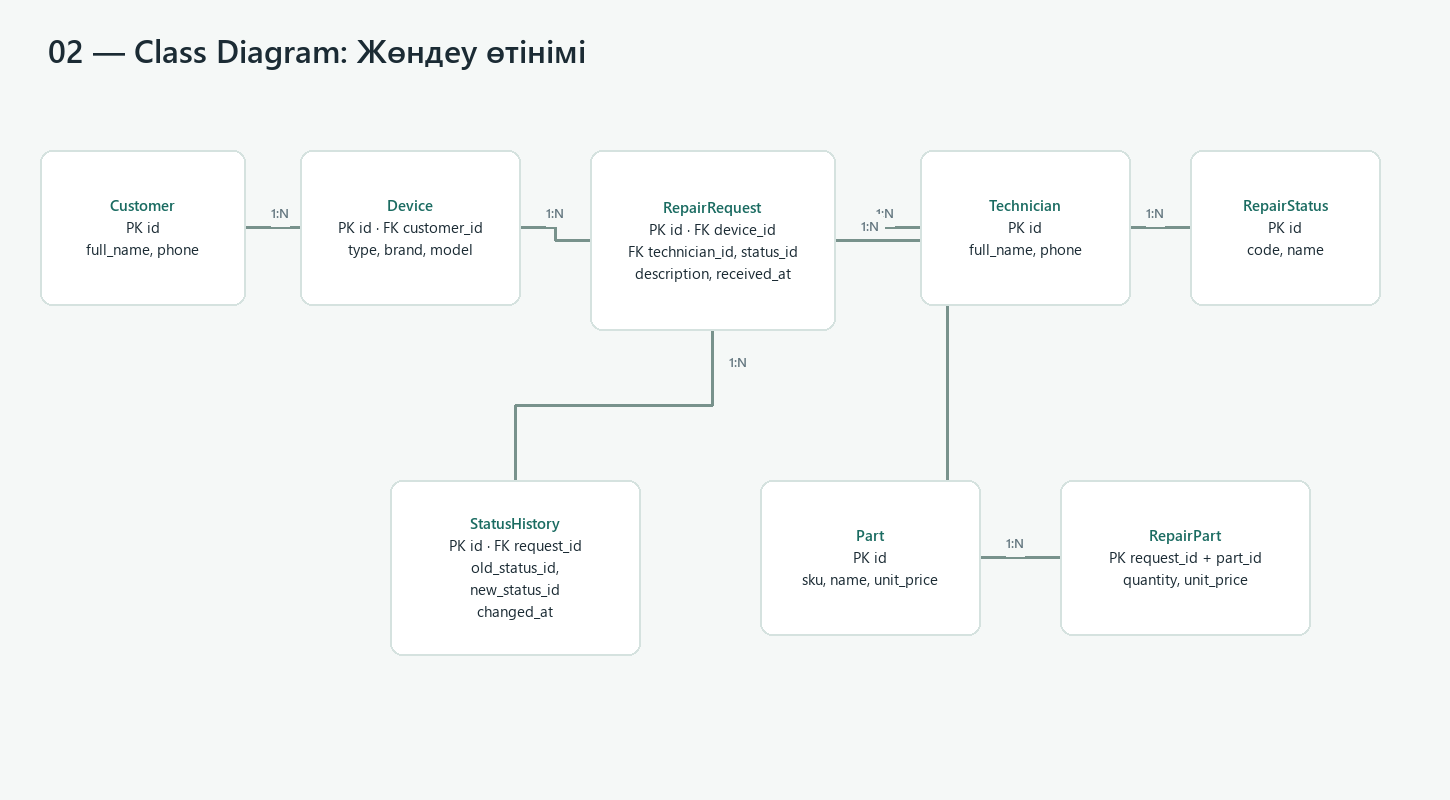
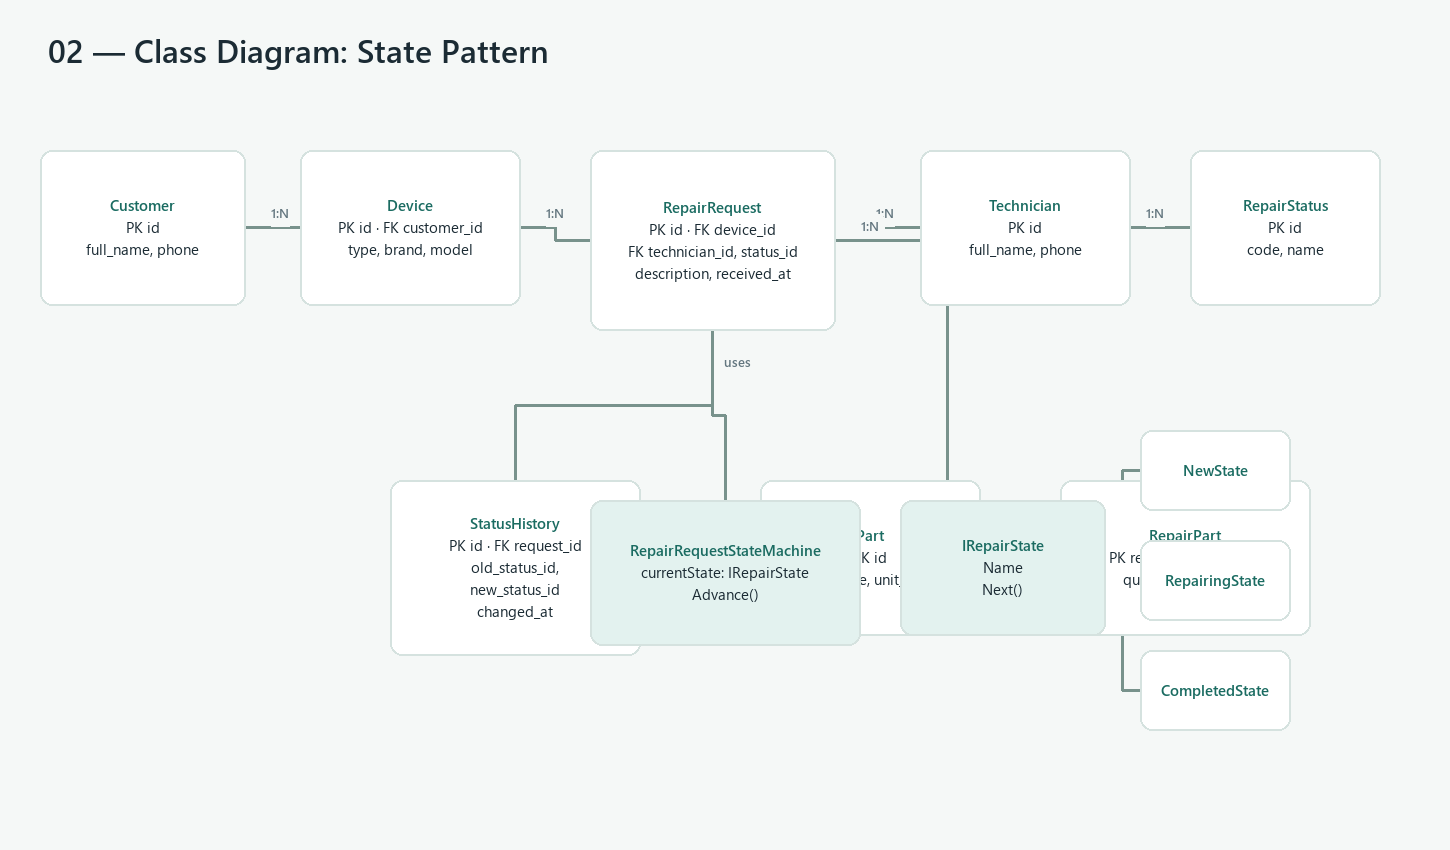
6-жұмыс: интерфейс, тестілеу және қауіпсіздік
Codex көмегімен жасалған жұмыс; Figma прототипінде 8 экран бар. PNG алдын ала қараулардың бір бөлігі жергілікті түрде жасалды.

diff --git a/code/RepairRequestState.cs b/code/RepairRequestState.cs
@@ -1,0 +1,51 @@
+// State үлгісі: өтінім күйінің ауысуын бөлек кластарға береді.
+namespace ComputerRepair;
+
+public interface IRepairState
+{
+    string Name { get; }
+    IRepairState Advance();
+}
+
+public sealed class RepairRequestStateMachine
+{
+    private IRepairState _state = new NewState();
+
+    public string CurrentStatus => _state.Name;
+
+    public void Advance()
+    {
+        _state = _state.Advance();
+    }
+}
+
+public sealed class NewState : IRepairState
+{
+    public string Name => "Жаңа";
+    public IRepairState Advance() => new DiagnosisState();
+}
+
+public sealed class DiagnosisState : IRepairState
+{
+    public string Name => "Диагностика";
+    public IRepairState Advance() => new RepairingState();
+}
+
+public sealed class RepairingState : IRepairState
+{
+    public string Name => "Жөндеуде";
+    public IRepairState Advance() => new ReadyState();
+}
+
+public sealed class ReadyState : IRepairState
+{
+    public string Name => "Дайын";
+    public IRepairState Advance() => new CompletedState();
+}
+
+public sealed class CompletedState : IRepairState
+{
+    public string Name => "Аяқталды";
+    public IRepairState Advance() => this;
+}
+

diff --git a/docs/tests.md b/docs/tests.md
@@ -1,0 +1,20 @@
+# Интерфейс тест-кейстері
+
+| ID | Экран | Алғышарт | Қадамдар | Күтілетін нәтиже |
+|---|---|---|---|---|
+| TC-01 | 01-login | Сервис беті ашық | «Өтінімді бастау» басу | Құрылғы түрін таңдау экраны ашылады |
+| TC-02 | 02-device-type | Өтінім басталды | «Ноутбук» таңдап, келесіге өту | Құрылғы мәліметтері экраны ашылады |
+| TC-03 | 03-device-details | Құрылғы экраны ашық | Өндіруші, модель енгізіп жалғастыру | Енгізілген мәлімет келесі қадамда сақталады |
+| TC-04 | 04-issue | Құрылғы мәліметі бар | Ақау түрі мен сипаттамасын енгізу | Ақау деректері тексеру экранында көрінеді |
+| TC-05 | 05-contact | Өтінім деректері енгізілген | Дұрыс аты, телефон, email енгізу | Тексеру экраны ашылады |
+| TC-06 | 06-review | Барлық міндетті дерек дұрыс | Растау белгісін қойып, жіберу | Өтінім бірегей нөмірмен қабылданады |
+| TC-07 | 07-confirmation | Өтінім сәтті жіберілді | «Өтінім мәртебесін көру» басу | Өтінімнің ағымдағы күйі ашылады |
+| TC-08 | 08-status | Өтінім нөмірі жарамды | Күй тарихын ашу | Қабылдау, диагностика және жөндеу күйлері ретімен көрсетіледі |
+| TC-09 | 03-device-details | Құрылғы экраны ашық | Өндірушіні бос қалдырып келесіге өту | Міндетті өріс қатесі көрсетіліп, өтінім жіберілмейді |
+| TC-10 | 04-issue | Ақау экраны ашық | Сипаттама өрісін бос қалдыру | Түсінікті қате көрсетіледі; бос сипаттама сақталмайды |
+| TC-11 | 05-contact | Байланыс экраны ашық | Телефонға әріптер енгізу | Телефон пішімі қабылданбай, түзету сұралады |
+| TC-12 | 05-contact | Байланыс экраны ашық | Қате email пішімін енгізу | Email қатесі көрсетіледі |
+| TC-13 | 08-status | Басқа клиенттің өтінім нөмірі белгілі | Сол өтінімді ашып көру | Сервер рұқсат бермейді және жеке деректерді көрсетпейді |
+| TC-14 | 06-review | Растау белгісі бос | Өтінімді жіберу | Растау сұралады; өтінім жасалмайды |
+| TC-15 | 07-confirmation | Жарамсыз өтінім нөмірі | Күйді ашуға тырысу | «Өтінім табылмады» жауабы көрсетіледі |
+

diff --git a/docs/quality.md b/docs/quality.md
@@ -1,0 +1,22 @@
+# Жоба сапасы, қауіпсіздігі және өнімділігі
+
+## State жобалау үлгісі және SOLID
+
+State үлгісі жөндеу өтінімінің «Жаңа → Диагностика → Жөндеуде → Дайын → Аяқталды» күй ауысуын жеке кластарға бөледі. Өтінімнің ағымдағы күйі мен келесі күйге ауысуы `IRepairState` арқылы анықталады. Жаңа күй қосу үшін өтінім логикасын өзгертпей, жаңа күй класын қосуға болады. Бұл тәсіл өзгертуге жабық, кеңейтуге ашық OCP қағидасын қолдайды.
+
+## STRIDE қауіптері және қорғаныс
+
+| STRIDE түрі | Қауіп мысалы | Қорғаныс шарасы |
+|---|---|---|
+| Spoofing | Біреу басқа клиенттің өтінімін өзінікі деп ашады | Жеке кабинетте құпиясөзді хэштеу, сессияны тексеру және қажет болса бір реттік код қолдану |
+| Tampering | Клиент басқа өтінімнің мәртебесін өзгертеді | Әр сұрауда сервер жағында рөл мен өтінім иелігін тексеру; күй өзгерісін тек рұқсатты шебер орындайды |
+| Repudiation | Қызметкер мәртебені өзгерткенін жоққа шығарады | `status_history` кестесіне кім, қашан және не өзгерткенін аудит ретінде жазу |
+| Information disclosure | Клиент басқа адамның телефон нөмірін немесе жөндеу дерегін көреді | Ең аз құқық қағидасы, иелік бойынша сүзгі, HTTPS және журналда жеке деректерді бүркемелеу |
+| Denial of service | Өтінім жіберу endpoint-іне көп сұрау жіберіледі | Rate limit, сұрау көлемін шектеу және қате сұрауларды бақылау |
+| Elevation of privilege | Клиент шебер функциясына қол жеткізеді | Әр endpoint-те серверлік рөл тексеруі; UI-дегі батырманы жасыруды жалғыз қорғаныс деп санамау |
+
+## Өлшенетін өнімділік талаптары
+
+- Кәдімгі жүктемеде өтінім жасау және мәртебені қарау API сұрауларының 95%-ы 2 секундтан аз уақытта жауап береді.
+- 100 қатар сұрау кезінде өтінім іздеу сұрауларының 95%-ы 1 секундтан аз уақытта аяқталады.
+

diff --git a/README.md b/README.md
@@ -77,4 +77,21 @@ diploma-computer-repair/
 
 Контейнерлер: Responsive Web App, ASP.NET Core API және SQLite дерекқоры. Байланыстар HTTPS/JSON және SQL арқылы жүреді.
 
+## 6. Интерфейс, жобалау үлгісі және сапа
+
+### Figma прототипі
+
+Figma: [өтінім беру және мәртебені бақылау прототипі](https://www.figma.com/proto/bR5C71Pr3xbABKug32ksed/Computer-Repair-Request---Prototype?node-id=4-10&starting-point-node-id=4%3A10&scaling=scale-down). Экран суреттері `diagrams/ui/` ішінде сақталған. Figma файлында қарау рұқсатын ортақ сілтемесі бар кез келген адамға ашу керек.
+
+![01 — Өтінімді бастау](diagrams/ui/01-login.png)
+
+### State үлгісі
+
+Өтінім күйлерін ауыстыру үлгісі [code/RepairRequestState.cs](code/RepairRequestState.cs) файлында берілген. Class диаграммасына `RepairRequestStateMachine` және `IRepairState` қосылды.
+
+### Тест-кейстер және сапа
+
+- [Интерфейс тест-кейстері](docs/tests.md) — 15 кейс, оның ішінде қате және рұқсатсыз әрекеттер.
+- [SOLID, STRIDE және өнімділік талаптары](docs/quality.md).
+
 
